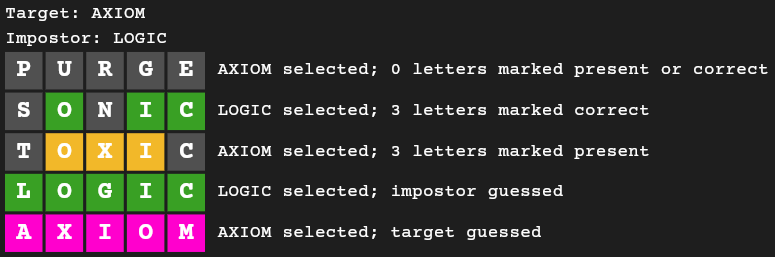
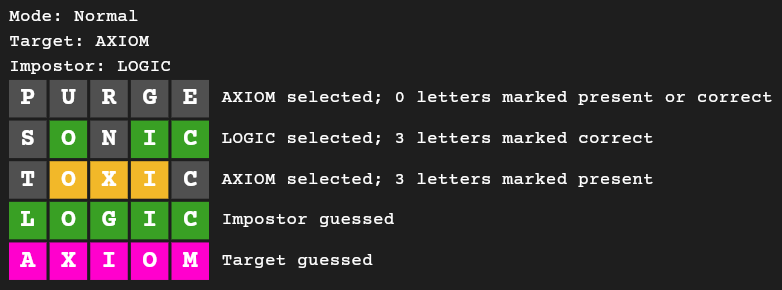
Update documentation: information page and README.md

Changed region(s): [[0.0, 0.1245, 0.991, 0.9961], [0.0, 0.0311, 0.1858, 0.0934]]

diff --git a/lib/information/widgets/information.dart b/lib/information/widgets/information.dart
@@ -45,31 +45,28 @@ class Information extends StatelessWidget {
               style: SchrodleTypography.subheading,
             ),
             const Text(
-              'Schrodle is a game that is inspired by Wordle and '
-              "the Schrödinger's Cat thought experiment.",
-            ),
-            const Text('The game works exactly like Wordle, but with a twist.'),
-            const Text(
-              'Like Wordle, the player is tasked with guessing the daily word, '
-              'which we call the "target." However, in addition to the target, '
-              'there is a secondary word, called the "impostor." Whenever a '
-              'guess is made, there is a 50/50 chance that the guess will be '
-              'validated against either the target or the impostor. Therefore, '
-              'if the impostor is used to validate the guess, letters can be '
-              'marked as present in the target word when, in fact, they are '
-              'absent (or in the incorrect position). It follows that letters '
-              'may be simultaneously market correctly and incorrectly with '
-              "respect to the target. Thus, the Schrödinger's Cat thought "
-              'experiment is, in essence, upheld.',
+              'Schrodle is a game that is inspired by Wordle and the '
+              "Schrödinger's Cat thought experiment. The game works exactly "
+              'like Wordle, but with a twist. Like Wordle, the player is '
+              'tasked with guessing the daily word, which we call the '
+              '"target." However, in addition to the target, there is a '
+              'secondary word, called the "impostor."', 
             ),
             const SizedBox(height: sectionSpacing),
             const Text(
-              'Example',
+              'Normal mode',
               style: SchrodleTypography.subheading,
             ),
-            const Text('Target: AXIOM'),
-            const Text('Impostor: LOGIC'),
-            const ExampleGrid(),
+            const Text(
+              'Whenever a guess is made, there is a 50/50 chance that the ' 
+              'guess will be validated against either the target or the '
+              'impostor. Therefore, if the impostor is selected to validate '
+              'the guess, letters can be marked as present in the target word '
+              'when, in fact, they are absent (or in the incorrect position). '
+              'It follows that letters may be simultaneously market correctly '
+              'and incorrectly with respect to the target. Thus, the '
+              "Schrödinger's Cat thought experiment is, in essence, upheld.",
+            ),
             const SizedBox(height: sectionSpacing),
             const Text(
               'Hard mode',
@@ -81,6 +78,15 @@ class Information extends StatelessWidget {
               'letter in either the target or the impostor. To compensate, the '
               'player is allotted additional guesses.',
             ),
+            const SizedBox(height: sectionSpacing),
+            const Text(
+              'Example',
+              style: SchrodleTypography.subheading,
+            ),
+            const Text('Mode: Normal'),
+            const Text('Target: AXIOM'),
+            const Text('Impostor: LOGIC'),
+            const ExampleGrid(),
             const SizedBox(height: sectionSpacing),
             const Text(
               'Credit',

diff --git a/lib/information/widgets/example_grid.dart b/lib/information/widgets/example_grid.dart
@@ -63,7 +63,7 @@ class ExampleGrid extends StatelessWidget {
               tileColors:
                   List<Color>.generate(rowSize, (index) => 
                     SchrodleColors.correct,),
-              annotation: 'LOGIC selected; impostor guessed',
+              annotation: 'Impostor guessed',
             ),
             const Divider(height: dividerSize, color: Colors.transparent),
             ExampleRow(
@@ -72,7 +72,7 @@ class ExampleGrid extends StatelessWidget {
               tileColors:
                   List<Color>.generate(rowSize, (index) => 
                     SchrodleColors.guessed,),
-              annotation: 'AXIOM selected; target guessed',
+              annotation: 'Target guessed',
             ),
           ],
         ),

diff --git a/README.md b/README.md
@@ -2,15 +2,17 @@
   <img src="./assets/images/schrodle-text-half-inverse.png" style="width: 20vw;"/>
 </div>
 
-# Schrodle
+# [Schrodle](https://thoresonjd.github.io/schrodle/) 😸
 
 ## Premise
 
-Schrodle is a game that is inspired by [Wordle](https://en.wikipedia.org/wiki/Wordle) and the [Schrödinger's Cat](https://en.wikipedia.org/wiki/Schr%C3%B6dinger's_cat) thought experiment.
+Schrodle is a game that is inspired by [Wordle](https://en.wikipedia.org/wiki/Wordle) and the [Schrödinger's Cat](https://en.wikipedia.org/wiki/Schr%C3%B6dinger's_cat) thought experiment. The game works exactly like Wordle, but with a twist. Like Wordle, the player is tasked with guessing the daily word, which we call the "target." However, in addition to the target, there is a secondary word, called the "impostor."
 
-The game works exactly like Wordle, but with a twist.
+## Normal mode
 
-Like Wordle, the player is tasked with guessing the daily word, which we call the "target." However, in addition to the target, there is a secondary word, called the "impostor." Whenever a guess is made, there is a 50/50 chance that the guess will be validated against either the target or the impostor. Therefore, if the impostor is used to validate the guess, letters can be marked as present in the target word when, in fact, they are absent (or in the incorrect position). It follows that letters may be simultaneously market correctly and incorrectly with respect to the target. Thus, the Schrödinger's Cat thought experiment is in essence, upheld.
+Whenever a guess is made, there is a 50/50 chance that the guess will be validated against either the target or the impostor. Therefore, if the impostor is selected to validate the guess, letters can be marked as present in the target word when, in fact, they are absent (or in the incorrect position). It follows that letters may be simultaneously market correctly and incorrectly with respect to the target. Thus, the Schrödinger's Cat thought experiment is in essence, upheld.
+
+## Hard mode
 
 In hard mode, there is a 50/50 chance for each individual letter of the guess to be validated against the corresponding letter in either the target or the impostor. To compensate, the player is allotted additional guesses.
 
